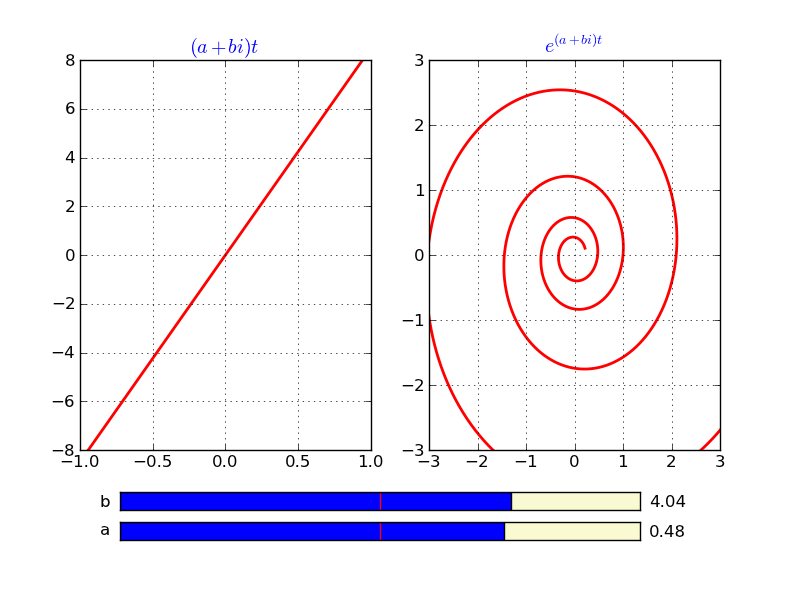
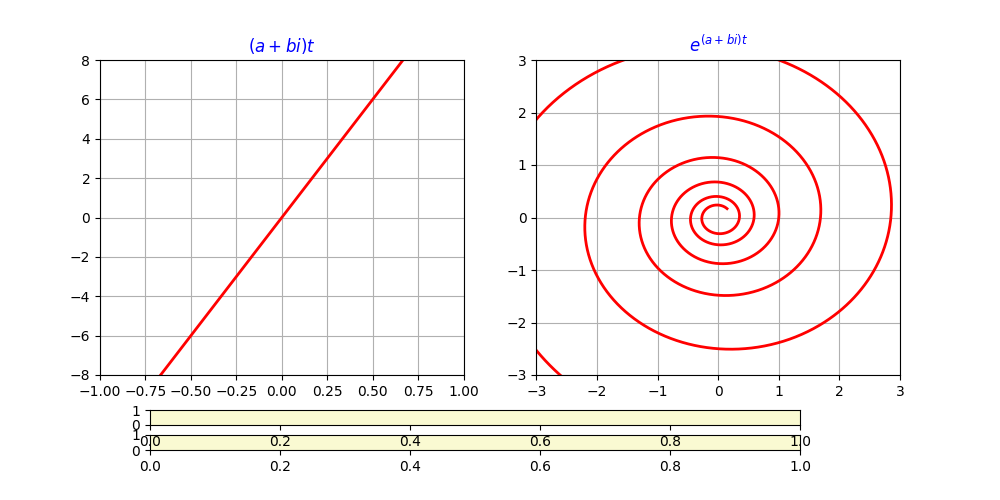
-

diff --git a/ode/ode_mattuck_06/ders_6.html b/ode/ode_mattuck_06/ders_6.html
@@ -389,50 +389,42 @@ hesaplarken <span class="math inline">\(e^{at} i\sin(bt)\)</span>
 formülündeki <span class="math inline">\(i\)</span> haricinde geri kalan
 terimleri hesaplıyoruz.</p>
 <div class="sourceCode" id="cb1"><pre
-class="sourceCode python"><code class="sourceCode python"><span id="cb1-1"><a href="#cb1-1" aria-hidden="true" tabindex="-1"></a><span class="co">#</span></span>
-<span id="cb1-2"><a href="#cb1-2" aria-hidden="true" tabindex="-1"></a><span class="co"># MIT OCW ODE Mathlet Complex Exponentials replacement in </span></span>
-<span id="cb1-3"><a href="#cb1-3" aria-hidden="true" tabindex="-1"></a><span class="co"># Python</span></span>
-<span id="cb1-4"><a href="#cb1-4" aria-hidden="true" tabindex="-1"></a><span class="co">#</span></span>
-<span id="cb1-5"><a href="#cb1-5" aria-hidden="true" tabindex="-1"></a><span class="im">from</span> pylab <span class="im">import</span> <span class="op">*</span></span>
-<span id="cb1-6"><a href="#cb1-6" aria-hidden="true" tabindex="-1"></a><span class="im">from</span> matplotlib.widgets <span class="im">import</span> Slider</span>
-<span id="cb1-7"><a href="#cb1-7" aria-hidden="true" tabindex="-1"></a></span>
-<span id="cb1-8"><a href="#cb1-8" aria-hidden="true" tabindex="-1"></a>ax <span class="op">=</span> subplot(<span class="dv">121</span>)</span>
-<span id="cb1-9"><a href="#cb1-9" aria-hidden="true" tabindex="-1"></a>subplots_adjust(left<span class="op">=</span><span class="fl">0.1</span>, bottom<span class="op">=</span><span class="fl">0.25</span>)</span>
-<span id="cb1-10"><a href="#cb1-10" aria-hidden="true" tabindex="-1"></a>l1, <span class="op">=</span> plot(<span class="va">None</span>,<span class="va">None</span>, lw<span class="op">=</span><span class="dv">2</span>, color<span class="op">=</span><span class="st">&#39;red&#39;</span>)</span>
-<span id="cb1-11"><a href="#cb1-11" aria-hidden="true" tabindex="-1"></a>axis([<span class="op">-</span><span class="dv">1</span>, <span class="dv">1</span>, <span class="op">-</span><span class="dv">8</span>, <span class="dv">8</span>])</span>
-<span id="cb1-12"><a href="#cb1-12" aria-hidden="true" tabindex="-1"></a>title (<span class="st">&#39;$(a + bi)t$&#39;</span>, color<span class="op">=</span><span class="st">&#39;blue&#39;</span>)</span>
-<span id="cb1-13"><a href="#cb1-13" aria-hidden="true" tabindex="-1"></a>grid()</span>
-<span id="cb1-14"><a href="#cb1-14" aria-hidden="true" tabindex="-1"></a></span>
-<span id="cb1-15"><a href="#cb1-15" aria-hidden="true" tabindex="-1"></a>ax <span class="op">=</span> subplot(<span class="dv">122</span>)</span>
-<span id="cb1-16"><a href="#cb1-16" aria-hidden="true" tabindex="-1"></a>subplots_adjust(left<span class="op">=</span><span class="fl">0.1</span>, bottom<span class="op">=</span><span class="fl">0.25</span>)</span>
-<span id="cb1-17"><a href="#cb1-17" aria-hidden="true" tabindex="-1"></a>l2, <span class="op">=</span> plot(<span class="va">None</span>,<span class="va">None</span>, lw<span class="op">=</span><span class="dv">2</span>, color<span class="op">=</span><span class="st">&#39;red&#39;</span>)</span>
-<span id="cb1-18"><a href="#cb1-18" aria-hidden="true" tabindex="-1"></a>axis([<span class="op">-</span><span class="dv">3</span>, <span class="dv">3</span>, <span class="op">-</span><span class="dv">3</span>, <span class="dv">3</span>])</span>
-<span id="cb1-19"><a href="#cb1-19" aria-hidden="true" tabindex="-1"></a>title (<span class="st">&#39;$e^{(a + bi)t}$&#39;</span>, color<span class="op">=</span><span class="st">&#39;blue&#39;</span>)</span>
-<span id="cb1-20"><a href="#cb1-20" aria-hidden="true" tabindex="-1"></a>grid()</span>
-<span id="cb1-21"><a href="#cb1-21" aria-hidden="true" tabindex="-1"></a></span>
-<span id="cb1-22"><a href="#cb1-22" aria-hidden="true" tabindex="-1"></a>axcolor <span class="op">=</span> <span class="st">&#39;lightgoldenrodyellow&#39;</span></span>
-<span id="cb1-23"><a href="#cb1-23" aria-hidden="true" tabindex="-1"></a>axa <span class="op">=</span> axes([<span class="fl">0.15</span>, <span class="fl">0.1</span>, <span class="fl">0.65</span>, <span class="fl">0.03</span>], axisbg<span class="op">=</span>axcolor)</span>
-<span id="cb1-24"><a href="#cb1-24" aria-hidden="true" tabindex="-1"></a>axb  <span class="op">=</span> axes([<span class="fl">0.15</span>, <span class="fl">0.15</span>, <span class="fl">0.65</span>, <span class="fl">0.03</span>], axisbg<span class="op">=</span>axcolor)</span>
-<span id="cb1-25"><a href="#cb1-25" aria-hidden="true" tabindex="-1"></a></span>
-<span id="cb1-26"><a href="#cb1-26" aria-hidden="true" tabindex="-1"></a>slidera <span class="op">=</span> Slider(axa, <span class="st">&#39;a&#39;</span>, <span class="op">-</span><span class="fl">1.0</span>, <span class="fl">1.0</span>, valinit<span class="op">=</span><span class="dv">0</span>)</span>
-<span id="cb1-27"><a href="#cb1-27" aria-hidden="true" tabindex="-1"></a>sliderb <span class="op">=</span> Slider(axb, <span class="st">&#39;b&#39;</span>, <span class="op">-</span><span class="fl">8.0</span>, <span class="fl">8.0</span>, valinit<span class="op">=</span><span class="dv">0</span>)</span>
-<span id="cb1-28"><a href="#cb1-28" aria-hidden="true" tabindex="-1"></a></span>
-<span id="cb1-29"><a href="#cb1-29" aria-hidden="true" tabindex="-1"></a><span class="kw">def</span> update(val):</span>
-<span id="cb1-30"><a href="#cb1-30" aria-hidden="true" tabindex="-1"></a>    a <span class="op">=</span> slidera.val</span>
-<span id="cb1-31"><a href="#cb1-31" aria-hidden="true" tabindex="-1"></a>    b <span class="op">=</span> sliderb.val</span>
-<span id="cb1-32"><a href="#cb1-32" aria-hidden="true" tabindex="-1"></a>    t <span class="op">=</span> arange(<span class="op">-</span><span class="fl">1.0</span>, <span class="fl">1.0</span>, <span class="fl">0.001</span>)</span>
-<span id="cb1-33"><a href="#cb1-33" aria-hidden="true" tabindex="-1"></a>    l1.set_xdata(t)</span>
-<span id="cb1-34"><a href="#cb1-34" aria-hidden="true" tabindex="-1"></a>    l1.set_ydata((b<span class="op">/</span>a)<span class="op">*</span>t)</span>
+class="sourceCode python"><code class="sourceCode python"><span id="cb1-1"><a href="#cb1-1" aria-hidden="true" tabindex="-1"></a><span class="co"># Create the figure and a set of subplots</span></span>
+<span id="cb1-2"><a href="#cb1-2" aria-hidden="true" tabindex="-1"></a>fig, (ax1, ax2) <span class="op">=</span> plt.subplots(<span class="dv">1</span>, <span class="dv">2</span>, figsize<span class="op">=</span>(<span class="dv">10</span>, <span class="dv">5</span>))</span>
+<span id="cb1-3"><a href="#cb1-3" aria-hidden="true" tabindex="-1"></a>plt.subplots_adjust(left<span class="op">=</span><span class="fl">0.1</span>, bottom<span class="op">=</span><span class="fl">0.25</span>)</span>
+<span id="cb1-4"><a href="#cb1-4" aria-hidden="true" tabindex="-1"></a></span>
+<span id="cb1-5"><a href="#cb1-5" aria-hidden="true" tabindex="-1"></a><span class="co"># Left subplot: (a + bi)t</span></span>
+<span id="cb1-6"><a href="#cb1-6" aria-hidden="true" tabindex="-1"></a>l1, <span class="op">=</span> ax1.plot([], [], lw<span class="op">=</span><span class="dv">2</span>, color<span class="op">=</span><span class="st">&#39;red&#39;</span>) <span class="co"># Initialize with empty lists</span></span>
+<span id="cb1-7"><a href="#cb1-7" aria-hidden="true" tabindex="-1"></a>ax1.set_xlim([<span class="op">-</span><span class="dv">1</span>, <span class="dv">1</span>])</span>
+<span id="cb1-8"><a href="#cb1-8" aria-hidden="true" tabindex="-1"></a>ax1.set_ylim([<span class="op">-</span><span class="dv">8</span>, <span class="dv">8</span>])</span>
+<span id="cb1-9"><a href="#cb1-9" aria-hidden="true" tabindex="-1"></a>ax1.set_title(<span class="st">&#39;$(a + bi)t$&#39;</span>, color<span class="op">=</span><span class="st">&#39;blue&#39;</span>)</span>
+<span id="cb1-10"><a href="#cb1-10" aria-hidden="true" tabindex="-1"></a>ax1.grid(<span class="va">True</span>)</span>
+<span id="cb1-11"><a href="#cb1-11" aria-hidden="true" tabindex="-1"></a></span>
+<span id="cb1-12"><a href="#cb1-12" aria-hidden="true" tabindex="-1"></a><span class="co"># Right subplot: e^(a + bi)t</span></span>
+<span id="cb1-13"><a href="#cb1-13" aria-hidden="true" tabindex="-1"></a>l2, <span class="op">=</span> ax2.plot([], [], lw<span class="op">=</span><span class="dv">2</span>, color<span class="op">=</span><span class="st">&#39;red&#39;</span>) <span class="co"># Initialize with empty lists</span></span>
+<span id="cb1-14"><a href="#cb1-14" aria-hidden="true" tabindex="-1"></a>ax2.set_xlim([<span class="op">-</span><span class="dv">3</span>, <span class="dv">3</span>])</span>
+<span id="cb1-15"><a href="#cb1-15" aria-hidden="true" tabindex="-1"></a>ax2.set_ylim([<span class="op">-</span><span class="dv">3</span>, <span class="dv">3</span>])</span>
+<span id="cb1-16"><a href="#cb1-16" aria-hidden="true" tabindex="-1"></a>ax2.set_title(<span class="st">&#39;$e^{(a + bi)t}$&#39;</span>, color<span class="op">=</span><span class="st">&#39;blue&#39;</span>)</span>
+<span id="cb1-17"><a href="#cb1-17" aria-hidden="true" tabindex="-1"></a>ax2.grid(<span class="va">True</span>)</span>
+<span id="cb1-18"><a href="#cb1-18" aria-hidden="true" tabindex="-1"></a></span>
+<span id="cb1-19"><a href="#cb1-19" aria-hidden="true" tabindex="-1"></a><span class="co"># Define slider axes</span></span>
+<span id="cb1-20"><a href="#cb1-20" aria-hidden="true" tabindex="-1"></a>axcolor <span class="op">=</span> <span class="st">&#39;lightgoldenrodyellow&#39;</span></span>
+<span id="cb1-21"><a href="#cb1-21" aria-hidden="true" tabindex="-1"></a>axa <span class="op">=</span> plt.axes([<span class="fl">0.15</span>, <span class="fl">0.1</span>, <span class="fl">0.65</span>, <span class="fl">0.03</span>], facecolor<span class="op">=</span>axcolor) <span class="co"># Use facecolor instead of axisbg</span></span>
+<span id="cb1-22"><a href="#cb1-22" aria-hidden="true" tabindex="-1"></a>axb <span class="op">=</span> plt.axes([<span class="fl">0.15</span>, <span class="fl">0.15</span>, <span class="fl">0.65</span>, <span class="fl">0.03</span>], facecolor<span class="op">=</span>axcolor) <span class="co"># Use facecolor instead of axisbg</span></span>
+<span id="cb1-23"><a href="#cb1-23" aria-hidden="true" tabindex="-1"></a></span>
+<span id="cb1-24"><a href="#cb1-24" aria-hidden="true" tabindex="-1"></a>a <span class="op">=</span> <span class="op">-</span><span class="fl">0.5</span></span>
+<span id="cb1-25"><a href="#cb1-25" aria-hidden="true" tabindex="-1"></a>b <span class="op">=</span> <span class="op">-</span><span class="dv">6</span></span>
+<span id="cb1-26"><a href="#cb1-26" aria-hidden="true" tabindex="-1"></a>t <span class="op">=</span> np.arange(<span class="op">-</span><span class="fl">1.0</span>, <span class="fl">1.0</span>, <span class="fl">0.001</span>)</span>
+<span id="cb1-27"><a href="#cb1-27" aria-hidden="true" tabindex="-1"></a>l1.set_xdata(t)</span>
+<span id="cb1-28"><a href="#cb1-28" aria-hidden="true" tabindex="-1"></a>l1.set_ydata((b<span class="op">/</span>a)<span class="op">*</span>t)</span>
+<span id="cb1-29"><a href="#cb1-29" aria-hidden="true" tabindex="-1"></a></span>
+<span id="cb1-30"><a href="#cb1-30" aria-hidden="true" tabindex="-1"></a>t <span class="op">=</span> np.arange(<span class="op">-</span><span class="fl">3.0</span>, <span class="fl">3.0</span>, <span class="fl">0.001</span>)</span>
+<span id="cb1-31"><a href="#cb1-31" aria-hidden="true" tabindex="-1"></a>l2.set_xdata(np.exp(a<span class="op">*</span>t)<span class="op">*</span>np.cos(b<span class="op">*</span>t))</span>
+<span id="cb1-32"><a href="#cb1-32" aria-hidden="true" tabindex="-1"></a>l2.set_ydata(np.exp(a<span class="op">*</span>t)<span class="op">*</span>np.sin(b<span class="op">*</span>t))</span>
+<span id="cb1-33"><a href="#cb1-33" aria-hidden="true" tabindex="-1"></a></span>
+<span id="cb1-34"><a href="#cb1-34" aria-hidden="true" tabindex="-1"></a>fig.canvas.draw_idle() <span class="co"># Use draw_idle for efficiency</span></span>
 <span id="cb1-35"><a href="#cb1-35" aria-hidden="true" tabindex="-1"></a></span>
-<span id="cb1-36"><a href="#cb1-36" aria-hidden="true" tabindex="-1"></a>    t <span class="op">=</span> arange(<span class="op">-</span><span class="fl">3.0</span>, <span class="fl">3.0</span>, <span class="fl">0.001</span>)</span>
-<span id="cb1-37"><a href="#cb1-37" aria-hidden="true" tabindex="-1"></a>    l2.set_xdata(exp(a<span class="op">*</span>t)<span class="op">*</span>cos(b<span class="op">*</span>t))</span>
-<span id="cb1-38"><a href="#cb1-38" aria-hidden="true" tabindex="-1"></a>    l2.set_ydata(exp(a<span class="op">*</span>t)<span class="op">*</span>sin(b<span class="op">*</span>t))</span>
-<span id="cb1-39"><a href="#cb1-39" aria-hidden="true" tabindex="-1"></a>    draw()</span>
-<span id="cb1-40"><a href="#cb1-40" aria-hidden="true" tabindex="-1"></a>    </span>
-<span id="cb1-41"><a href="#cb1-41" aria-hidden="true" tabindex="-1"></a>slidera.on_changed(update)</span>
-<span id="cb1-42"><a href="#cb1-42" aria-hidden="true" tabindex="-1"></a>sliderb.on_changed(update)</span>
-<span id="cb1-43"><a href="#cb1-43" aria-hidden="true" tabindex="-1"></a></span>
-<span id="cb1-44"><a href="#cb1-44" aria-hidden="true" tabindex="-1"></a>plt.savefig(<span class="st">&#39;compexp.png&#39;</span>)</span></code></pre></div>
+<span id="cb1-36"><a href="#cb1-36" aria-hidden="true" tabindex="-1"></a>plt.savefig(<span class="st">&#39;compexp.png&#39;</span>)</span></code></pre></div>
 <p><img src="compexp.png" /></p>
 <p>Problemler 2, 7b</p>
 <p><span class="math inline">\(\dot{z} + 3z = e^{2it}\)</span>

diff --git a/ode/ode_mattuck_06/ode_mattuck_06.html b/ode/ode_mattuck_06/ode_mattuck_06.html
@@ -389,50 +389,42 @@ hesaplarken <span class="math inline">\(e^{at} i\sin(bt)\)</span>
 formülündeki <span class="math inline">\(i\)</span> haricinde geri kalan
 terimleri hesaplıyoruz.</p>
 <div class="sourceCode" id="cb1"><pre
-class="sourceCode python"><code class="sourceCode python"><span id="cb1-1"><a href="#cb1-1" aria-hidden="true" tabindex="-1"></a><span class="co">#</span></span>
-<span id="cb1-2"><a href="#cb1-2" aria-hidden="true" tabindex="-1"></a><span class="co"># MIT OCW ODE Mathlet Complex Exponentials replacement in </span></span>
-<span id="cb1-3"><a href="#cb1-3" aria-hidden="true" tabindex="-1"></a><span class="co"># Python</span></span>
-<span id="cb1-4"><a href="#cb1-4" aria-hidden="true" tabindex="-1"></a><span class="co">#</span></span>
-<span id="cb1-5"><a href="#cb1-5" aria-hidden="true" tabindex="-1"></a><span class="im">from</span> pylab <span class="im">import</span> <span class="op">*</span></span>
-<span id="cb1-6"><a href="#cb1-6" aria-hidden="true" tabindex="-1"></a><span class="im">from</span> matplotlib.widgets <span class="im">import</span> Slider</span>
-<span id="cb1-7"><a href="#cb1-7" aria-hidden="true" tabindex="-1"></a></span>
-<span id="cb1-8"><a href="#cb1-8" aria-hidden="true" tabindex="-1"></a>ax <span class="op">=</span> subplot(<span class="dv">121</span>)</span>
-<span id="cb1-9"><a href="#cb1-9" aria-hidden="true" tabindex="-1"></a>subplots_adjust(left<span class="op">=</span><span class="fl">0.1</span>, bottom<span class="op">=</span><span class="fl">0.25</span>)</span>
-<span id="cb1-10"><a href="#cb1-10" aria-hidden="true" tabindex="-1"></a>l1, <span class="op">=</span> plot(<span class="va">None</span>,<span class="va">None</span>, lw<span class="op">=</span><span class="dv">2</span>, color<span class="op">=</span><span class="st">&#39;red&#39;</span>)</span>
-<span id="cb1-11"><a href="#cb1-11" aria-hidden="true" tabindex="-1"></a>axis([<span class="op">-</span><span class="dv">1</span>, <span class="dv">1</span>, <span class="op">-</span><span class="dv">8</span>, <span class="dv">8</span>])</span>
-<span id="cb1-12"><a href="#cb1-12" aria-hidden="true" tabindex="-1"></a>title (<span class="st">&#39;$(a + bi)t$&#39;</span>, color<span class="op">=</span><span class="st">&#39;blue&#39;</span>)</span>
-<span id="cb1-13"><a href="#cb1-13" aria-hidden="true" tabindex="-1"></a>grid()</span>
-<span id="cb1-14"><a href="#cb1-14" aria-hidden="true" tabindex="-1"></a></span>
-<span id="cb1-15"><a href="#cb1-15" aria-hidden="true" tabindex="-1"></a>ax <span class="op">=</span> subplot(<span class="dv">122</span>)</span>
-<span id="cb1-16"><a href="#cb1-16" aria-hidden="true" tabindex="-1"></a>subplots_adjust(left<span class="op">=</span><span class="fl">0.1</span>, bottom<span class="op">=</span><span class="fl">0.25</span>)</span>
-<span id="cb1-17"><a href="#cb1-17" aria-hidden="true" tabindex="-1"></a>l2, <span class="op">=</span> plot(<span class="va">None</span>,<span class="va">None</span>, lw<span class="op">=</span><span class="dv">2</span>, color<span class="op">=</span><span class="st">&#39;red&#39;</span>)</span>
-<span id="cb1-18"><a href="#cb1-18" aria-hidden="true" tabindex="-1"></a>axis([<span class="op">-</span><span class="dv">3</span>, <span class="dv">3</span>, <span class="op">-</span><span class="dv">3</span>, <span class="dv">3</span>])</span>
-<span id="cb1-19"><a href="#cb1-19" aria-hidden="true" tabindex="-1"></a>title (<span class="st">&#39;$e^{(a + bi)t}$&#39;</span>, color<span class="op">=</span><span class="st">&#39;blue&#39;</span>)</span>
-<span id="cb1-20"><a href="#cb1-20" aria-hidden="true" tabindex="-1"></a>grid()</span>
-<span id="cb1-21"><a href="#cb1-21" aria-hidden="true" tabindex="-1"></a></span>
-<span id="cb1-22"><a href="#cb1-22" aria-hidden="true" tabindex="-1"></a>axcolor <span class="op">=</span> <span class="st">&#39;lightgoldenrodyellow&#39;</span></span>
-<span id="cb1-23"><a href="#cb1-23" aria-hidden="true" tabindex="-1"></a>axa <span class="op">=</span> axes([<span class="fl">0.15</span>, <span class="fl">0.1</span>, <span class="fl">0.65</span>, <span class="fl">0.03</span>], axisbg<span class="op">=</span>axcolor)</span>
-<span id="cb1-24"><a href="#cb1-24" aria-hidden="true" tabindex="-1"></a>axb  <span class="op">=</span> axes([<span class="fl">0.15</span>, <span class="fl">0.15</span>, <span class="fl">0.65</span>, <span class="fl">0.03</span>], axisbg<span class="op">=</span>axcolor)</span>
-<span id="cb1-25"><a href="#cb1-25" aria-hidden="true" tabindex="-1"></a></span>
-<span id="cb1-26"><a href="#cb1-26" aria-hidden="true" tabindex="-1"></a>slidera <span class="op">=</span> Slider(axa, <span class="st">&#39;a&#39;</span>, <span class="op">-</span><span class="fl">1.0</span>, <span class="fl">1.0</span>, valinit<span class="op">=</span><span class="dv">0</span>)</span>
-<span id="cb1-27"><a href="#cb1-27" aria-hidden="true" tabindex="-1"></a>sliderb <span class="op">=</span> Slider(axb, <span class="st">&#39;b&#39;</span>, <span class="op">-</span><span class="fl">8.0</span>, <span class="fl">8.0</span>, valinit<span class="op">=</span><span class="dv">0</span>)</span>
-<span id="cb1-28"><a href="#cb1-28" aria-hidden="true" tabindex="-1"></a></span>
-<span id="cb1-29"><a href="#cb1-29" aria-hidden="true" tabindex="-1"></a><span class="kw">def</span> update(val):</span>
-<span id="cb1-30"><a href="#cb1-30" aria-hidden="true" tabindex="-1"></a>    a <span class="op">=</span> slidera.val</span>
-<span id="cb1-31"><a href="#cb1-31" aria-hidden="true" tabindex="-1"></a>    b <span class="op">=</span> sliderb.val</span>
-<span id="cb1-32"><a href="#cb1-32" aria-hidden="true" tabindex="-1"></a>    t <span class="op">=</span> arange(<span class="op">-</span><span class="fl">1.0</span>, <span class="fl">1.0</span>, <span class="fl">0.001</span>)</span>
-<span id="cb1-33"><a href="#cb1-33" aria-hidden="true" tabindex="-1"></a>    l1.set_xdata(t)</span>
-<span id="cb1-34"><a href="#cb1-34" aria-hidden="true" tabindex="-1"></a>    l1.set_ydata((b<span class="op">/</span>a)<span class="op">*</span>t)</span>
+class="sourceCode python"><code class="sourceCode python"><span id="cb1-1"><a href="#cb1-1" aria-hidden="true" tabindex="-1"></a><span class="co"># Create the figure and a set of subplots</span></span>
+<span id="cb1-2"><a href="#cb1-2" aria-hidden="true" tabindex="-1"></a>fig, (ax1, ax2) <span class="op">=</span> plt.subplots(<span class="dv">1</span>, <span class="dv">2</span>, figsize<span class="op">=</span>(<span class="dv">10</span>, <span class="dv">5</span>))</span>
+<span id="cb1-3"><a href="#cb1-3" aria-hidden="true" tabindex="-1"></a>plt.subplots_adjust(left<span class="op">=</span><span class="fl">0.1</span>, bottom<span class="op">=</span><span class="fl">0.25</span>)</span>
+<span id="cb1-4"><a href="#cb1-4" aria-hidden="true" tabindex="-1"></a></span>
+<span id="cb1-5"><a href="#cb1-5" aria-hidden="true" tabindex="-1"></a><span class="co"># Left subplot: (a + bi)t</span></span>
+<span id="cb1-6"><a href="#cb1-6" aria-hidden="true" tabindex="-1"></a>l1, <span class="op">=</span> ax1.plot([], [], lw<span class="op">=</span><span class="dv">2</span>, color<span class="op">=</span><span class="st">&#39;red&#39;</span>) <span class="co"># Initialize with empty lists</span></span>
+<span id="cb1-7"><a href="#cb1-7" aria-hidden="true" tabindex="-1"></a>ax1.set_xlim([<span class="op">-</span><span class="dv">1</span>, <span class="dv">1</span>])</span>
+<span id="cb1-8"><a href="#cb1-8" aria-hidden="true" tabindex="-1"></a>ax1.set_ylim([<span class="op">-</span><span class="dv">8</span>, <span class="dv">8</span>])</span>
+<span id="cb1-9"><a href="#cb1-9" aria-hidden="true" tabindex="-1"></a>ax1.set_title(<span class="st">&#39;$(a + bi)t$&#39;</span>, color<span class="op">=</span><span class="st">&#39;blue&#39;</span>)</span>
+<span id="cb1-10"><a href="#cb1-10" aria-hidden="true" tabindex="-1"></a>ax1.grid(<span class="va">True</span>)</span>
+<span id="cb1-11"><a href="#cb1-11" aria-hidden="true" tabindex="-1"></a></span>
+<span id="cb1-12"><a href="#cb1-12" aria-hidden="true" tabindex="-1"></a><span class="co"># Right subplot: e^(a + bi)t</span></span>
+<span id="cb1-13"><a href="#cb1-13" aria-hidden="true" tabindex="-1"></a>l2, <span class="op">=</span> ax2.plot([], [], lw<span class="op">=</span><span class="dv">2</span>, color<span class="op">=</span><span class="st">&#39;red&#39;</span>) <span class="co"># Initialize with empty lists</span></span>
+<span id="cb1-14"><a href="#cb1-14" aria-hidden="true" tabindex="-1"></a>ax2.set_xlim([<span class="op">-</span><span class="dv">3</span>, <span class="dv">3</span>])</span>
+<span id="cb1-15"><a href="#cb1-15" aria-hidden="true" tabindex="-1"></a>ax2.set_ylim([<span class="op">-</span><span class="dv">3</span>, <span class="dv">3</span>])</span>
+<span id="cb1-16"><a href="#cb1-16" aria-hidden="true" tabindex="-1"></a>ax2.set_title(<span class="st">&#39;$e^{(a + bi)t}$&#39;</span>, color<span class="op">=</span><span class="st">&#39;blue&#39;</span>)</span>
+<span id="cb1-17"><a href="#cb1-17" aria-hidden="true" tabindex="-1"></a>ax2.grid(<span class="va">True</span>)</span>
+<span id="cb1-18"><a href="#cb1-18" aria-hidden="true" tabindex="-1"></a></span>
+<span id="cb1-19"><a href="#cb1-19" aria-hidden="true" tabindex="-1"></a><span class="co"># Define slider axes</span></span>
+<span id="cb1-20"><a href="#cb1-20" aria-hidden="true" tabindex="-1"></a>axcolor <span class="op">=</span> <span class="st">&#39;lightgoldenrodyellow&#39;</span></span>
+<span id="cb1-21"><a href="#cb1-21" aria-hidden="true" tabindex="-1"></a>axa <span class="op">=</span> plt.axes([<span class="fl">0.15</span>, <span class="fl">0.1</span>, <span class="fl">0.65</span>, <span class="fl">0.03</span>], facecolor<span class="op">=</span>axcolor) <span class="co"># Use facecolor instead of axisbg</span></span>
+<span id="cb1-22"><a href="#cb1-22" aria-hidden="true" tabindex="-1"></a>axb <span class="op">=</span> plt.axes([<span class="fl">0.15</span>, <span class="fl">0.15</span>, <span class="fl">0.65</span>, <span class="fl">0.03</span>], facecolor<span class="op">=</span>axcolor) <span class="co"># Use facecolor instead of axisbg</span></span>
+<span id="cb1-23"><a href="#cb1-23" aria-hidden="true" tabindex="-1"></a></span>
+<span id="cb1-24"><a href="#cb1-24" aria-hidden="true" tabindex="-1"></a>a <span class="op">=</span> <span class="op">-</span><span class="fl">0.5</span></span>
+<span id="cb1-25"><a href="#cb1-25" aria-hidden="true" tabindex="-1"></a>b <span class="op">=</span> <span class="op">-</span><span class="dv">6</span></span>
+<span id="cb1-26"><a href="#cb1-26" aria-hidden="true" tabindex="-1"></a>t <span class="op">=</span> np.arange(<span class="op">-</span><span class="fl">1.0</span>, <span class="fl">1.0</span>, <span class="fl">0.001</span>)</span>
+<span id="cb1-27"><a href="#cb1-27" aria-hidden="true" tabindex="-1"></a>l1.set_xdata(t)</span>
+<span id="cb1-28"><a href="#cb1-28" aria-hidden="true" tabindex="-1"></a>l1.set_ydata((b<span class="op">/</span>a)<span class="op">*</span>t)</span>
+<span id="cb1-29"><a href="#cb1-29" aria-hidden="true" tabindex="-1"></a></span>
+<span id="cb1-30"><a href="#cb1-30" aria-hidden="true" tabindex="-1"></a>t <span class="op">=</span> np.arange(<span class="op">-</span><span class="fl">3.0</span>, <span class="fl">3.0</span>, <span class="fl">0.001</span>)</span>
+<span id="cb1-31"><a href="#cb1-31" aria-hidden="true" tabindex="-1"></a>l2.set_xdata(np.exp(a<span class="op">*</span>t)<span class="op">*</span>np.cos(b<span class="op">*</span>t))</span>
+<span id="cb1-32"><a href="#cb1-32" aria-hidden="true" tabindex="-1"></a>l2.set_ydata(np.exp(a<span class="op">*</span>t)<span class="op">*</span>np.sin(b<span class="op">*</span>t))</span>
+<span id="cb1-33"><a href="#cb1-33" aria-hidden="true" tabindex="-1"></a></span>
+<span id="cb1-34"><a href="#cb1-34" aria-hidden="true" tabindex="-1"></a>fig.canvas.draw_idle() <span class="co"># Use draw_idle for efficiency</span></span>
 <span id="cb1-35"><a href="#cb1-35" aria-hidden="true" tabindex="-1"></a></span>
-<span id="cb1-36"><a href="#cb1-36" aria-hidden="true" tabindex="-1"></a>    t <span class="op">=</span> arange(<span class="op">-</span><span class="fl">3.0</span>, <span class="fl">3.0</span>, <span class="fl">0.001</span>)</span>
-<span id="cb1-37"><a href="#cb1-37" aria-hidden="true" tabindex="-1"></a>    l2.set_xdata(exp(a<span class="op">*</span>t)<span class="op">*</span>cos(b<span class="op">*</span>t))</span>
-<span id="cb1-38"><a href="#cb1-38" aria-hidden="true" tabindex="-1"></a>    l2.set_ydata(exp(a<span class="op">*</span>t)<span class="op">*</span>sin(b<span class="op">*</span>t))</span>
-<span id="cb1-39"><a href="#cb1-39" aria-hidden="true" tabindex="-1"></a>    draw()</span>
-<span id="cb1-40"><a href="#cb1-40" aria-hidden="true" tabindex="-1"></a>    </span>
-<span id="cb1-41"><a href="#cb1-41" aria-hidden="true" tabindex="-1"></a>slidera.on_changed(update)</span>
-<span id="cb1-42"><a href="#cb1-42" aria-hidden="true" tabindex="-1"></a>sliderb.on_changed(update)</span>
-<span id="cb1-43"><a href="#cb1-43" aria-hidden="true" tabindex="-1"></a></span>
-<span id="cb1-44"><a href="#cb1-44" aria-hidden="true" tabindex="-1"></a>plt.savefig(<span class="st">&#39;compexp.png&#39;</span>)</span></code></pre></div>
+<span id="cb1-36"><a href="#cb1-36" aria-hidden="true" tabindex="-1"></a>plt.savefig(<span class="st">&#39;compexp.png&#39;</span>)</span></code></pre></div>
 <p><img src="compexp.png" /></p>
 <p>Problemler 2, 7b</p>
 <p><span class="math inline">\(\dot{z} + 3z = e^{2it}\)</span>
